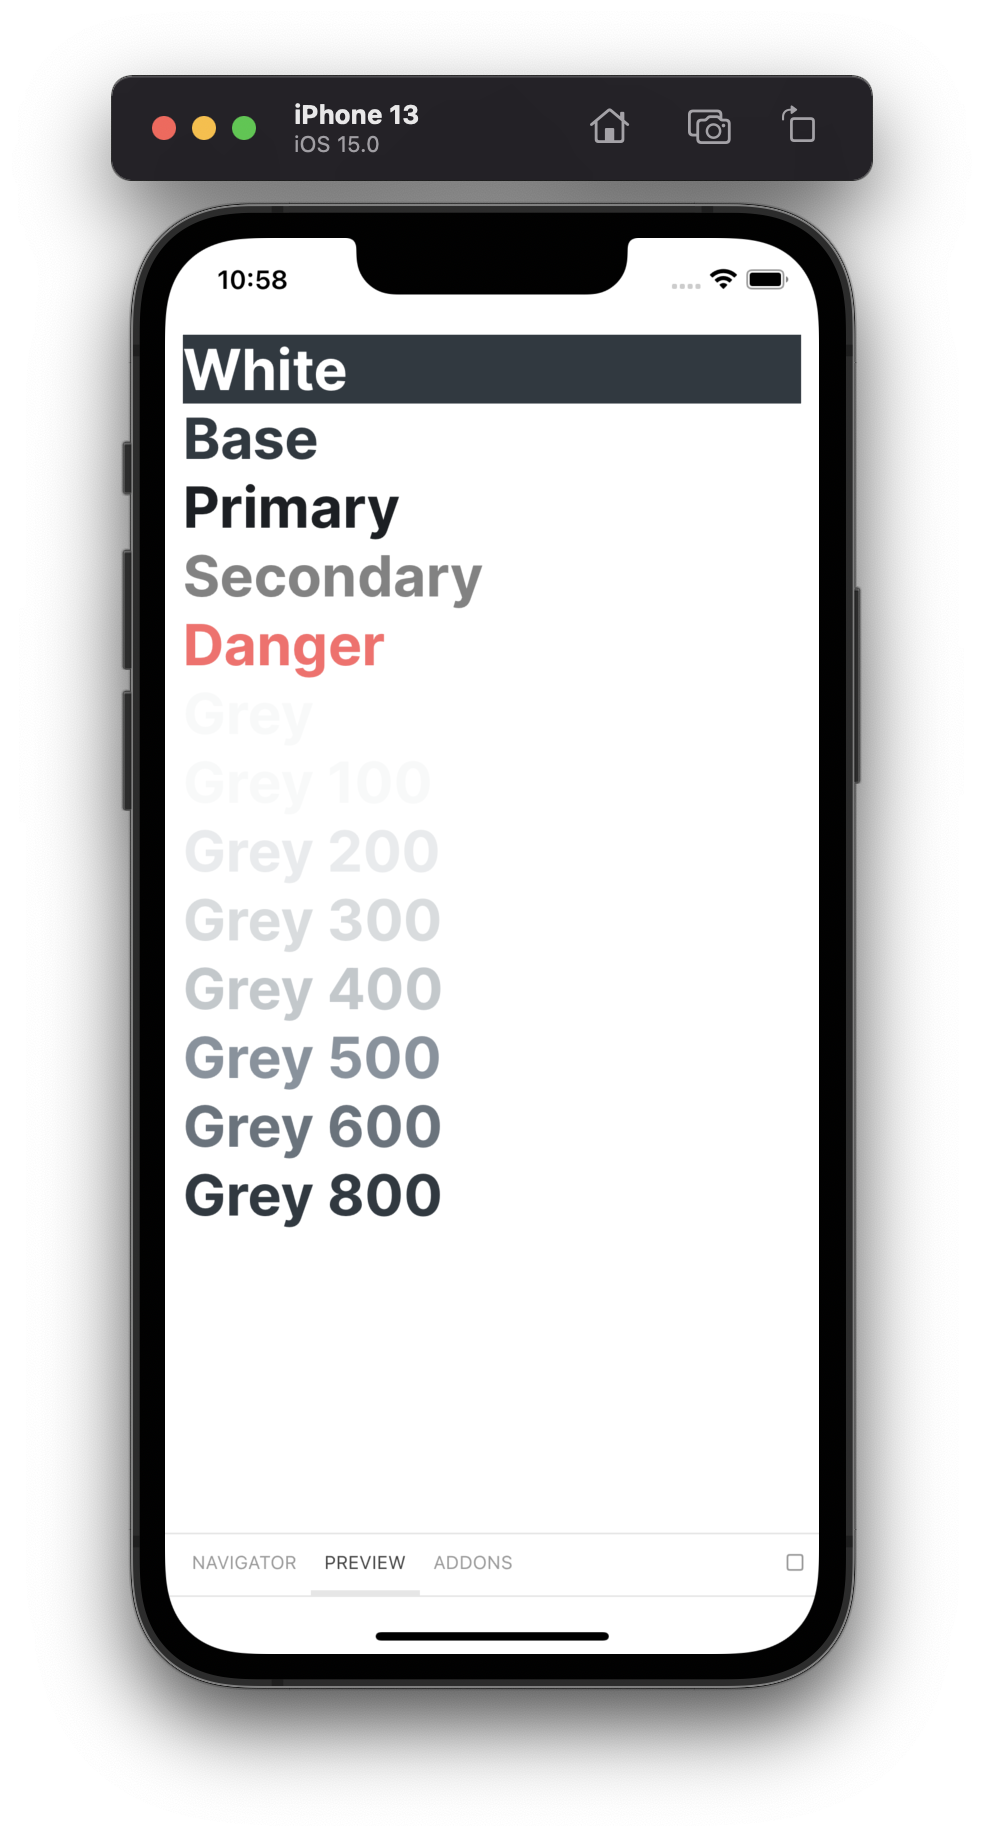
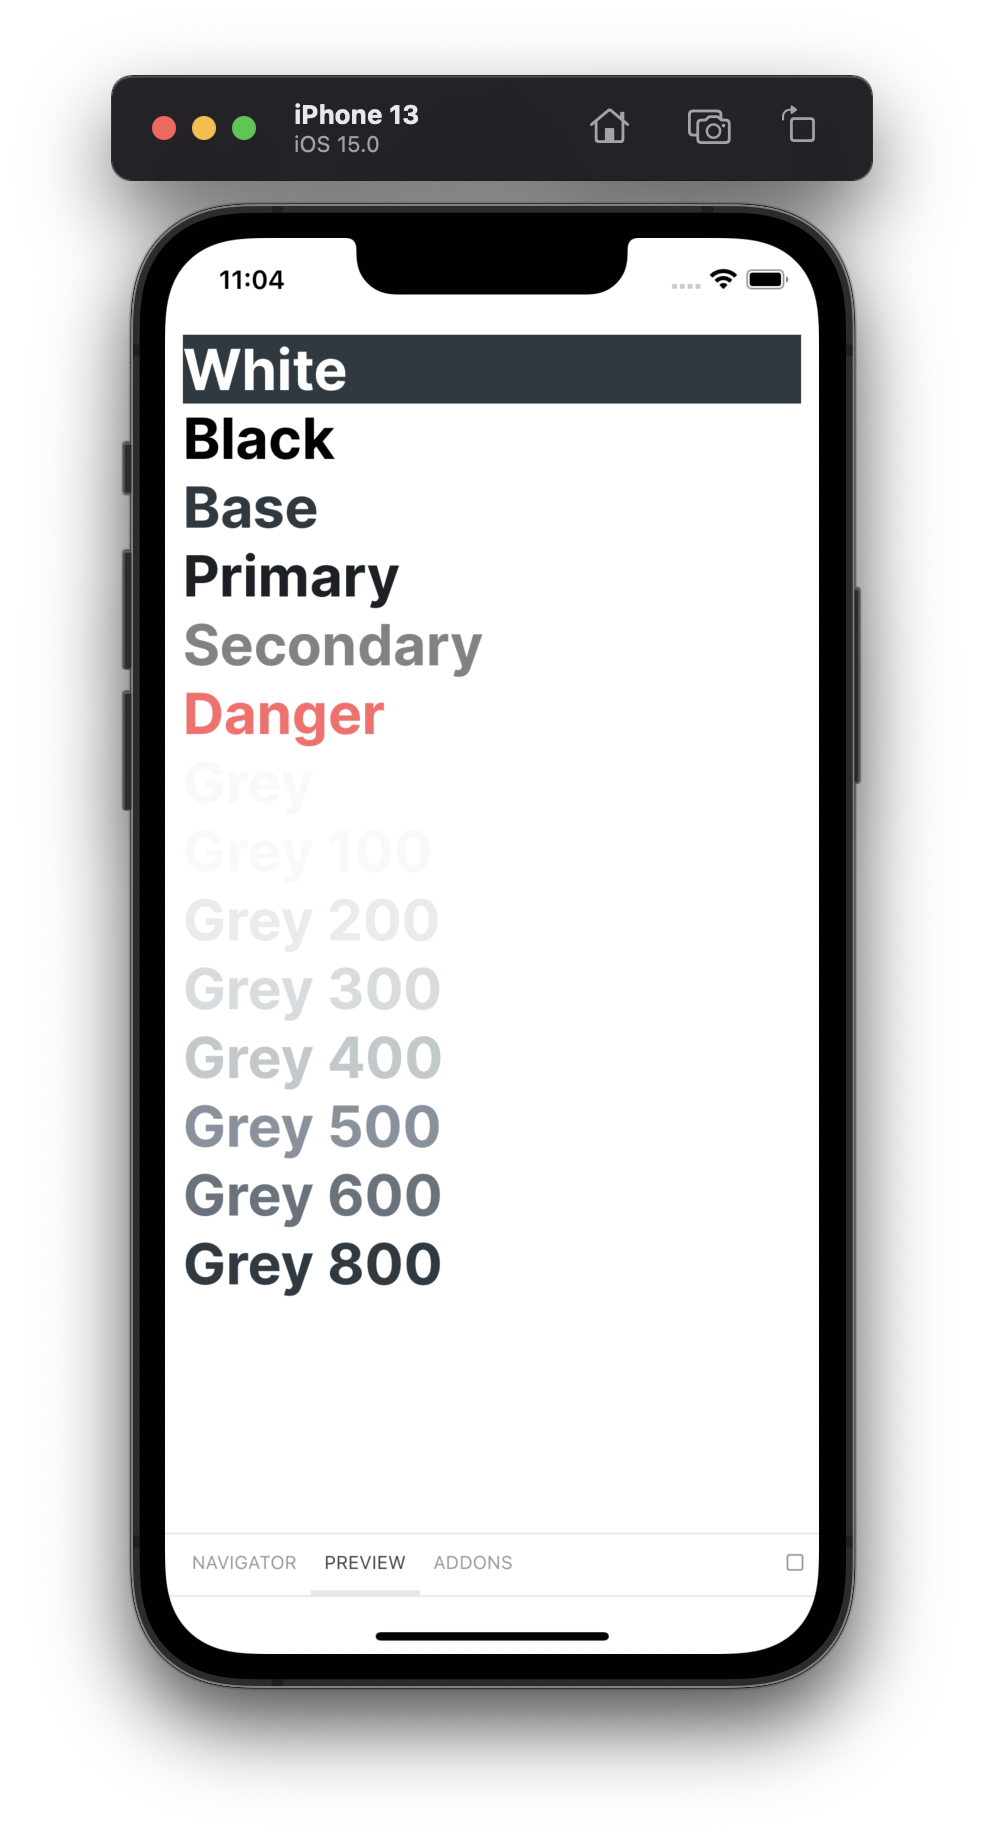
Added black color typography story and updated snapshot

Changed region(s): [[0.1829, 0.2168, 0.4878, 0.4027], [0.1829, 0.5266, 0.4573, 0.7125], [0.2134, 0.1239, 0.3049, 0.1549]]

diff --git a/storybook/stories/Typography.stories.js b/storybook/stories/Typography.stories.js
@@ -39,6 +39,7 @@ export const FontColors = () => {
       <Container backgroundColor="background.base">
         <LargeTitle color="font.white">White</LargeTitle>
       </Container>
+      <LargeTitle color="font.black">Black</LargeTitle>
       <LargeTitle color="font.base">Base</LargeTitle>
       <LargeTitle>Primary</LargeTitle>
       <LargeTitle color="font.secondary">Secondary</LargeTitle>
